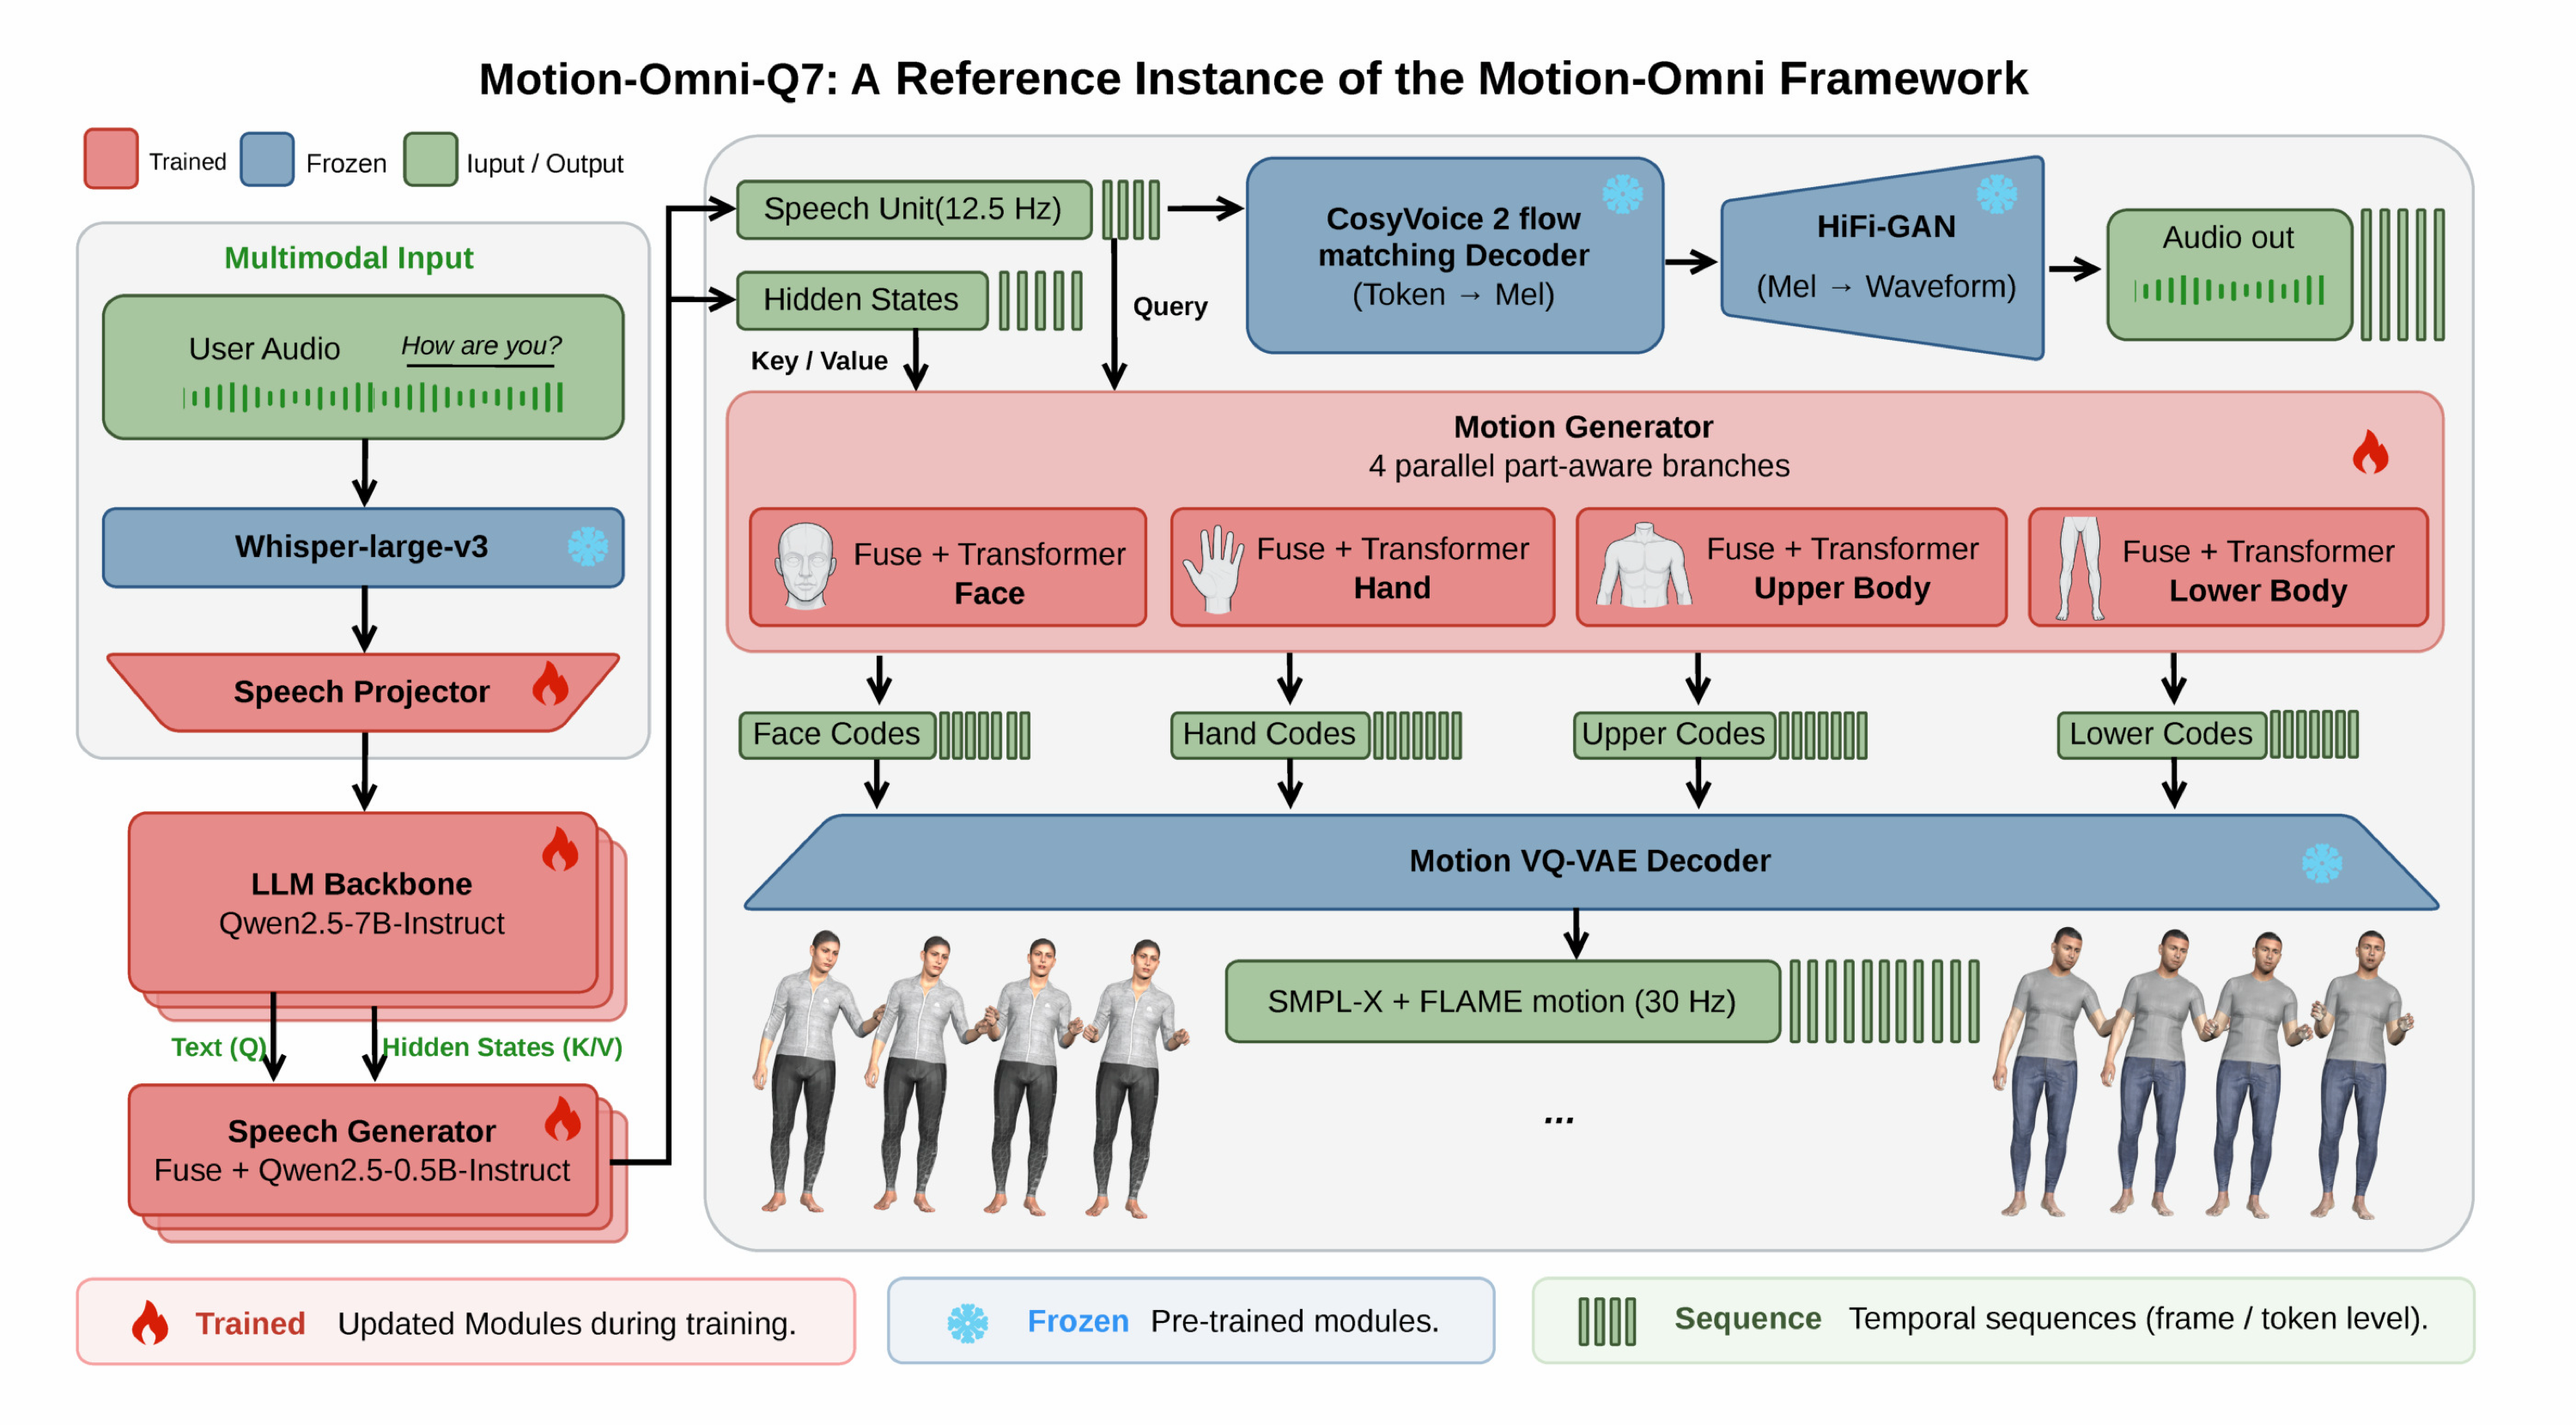
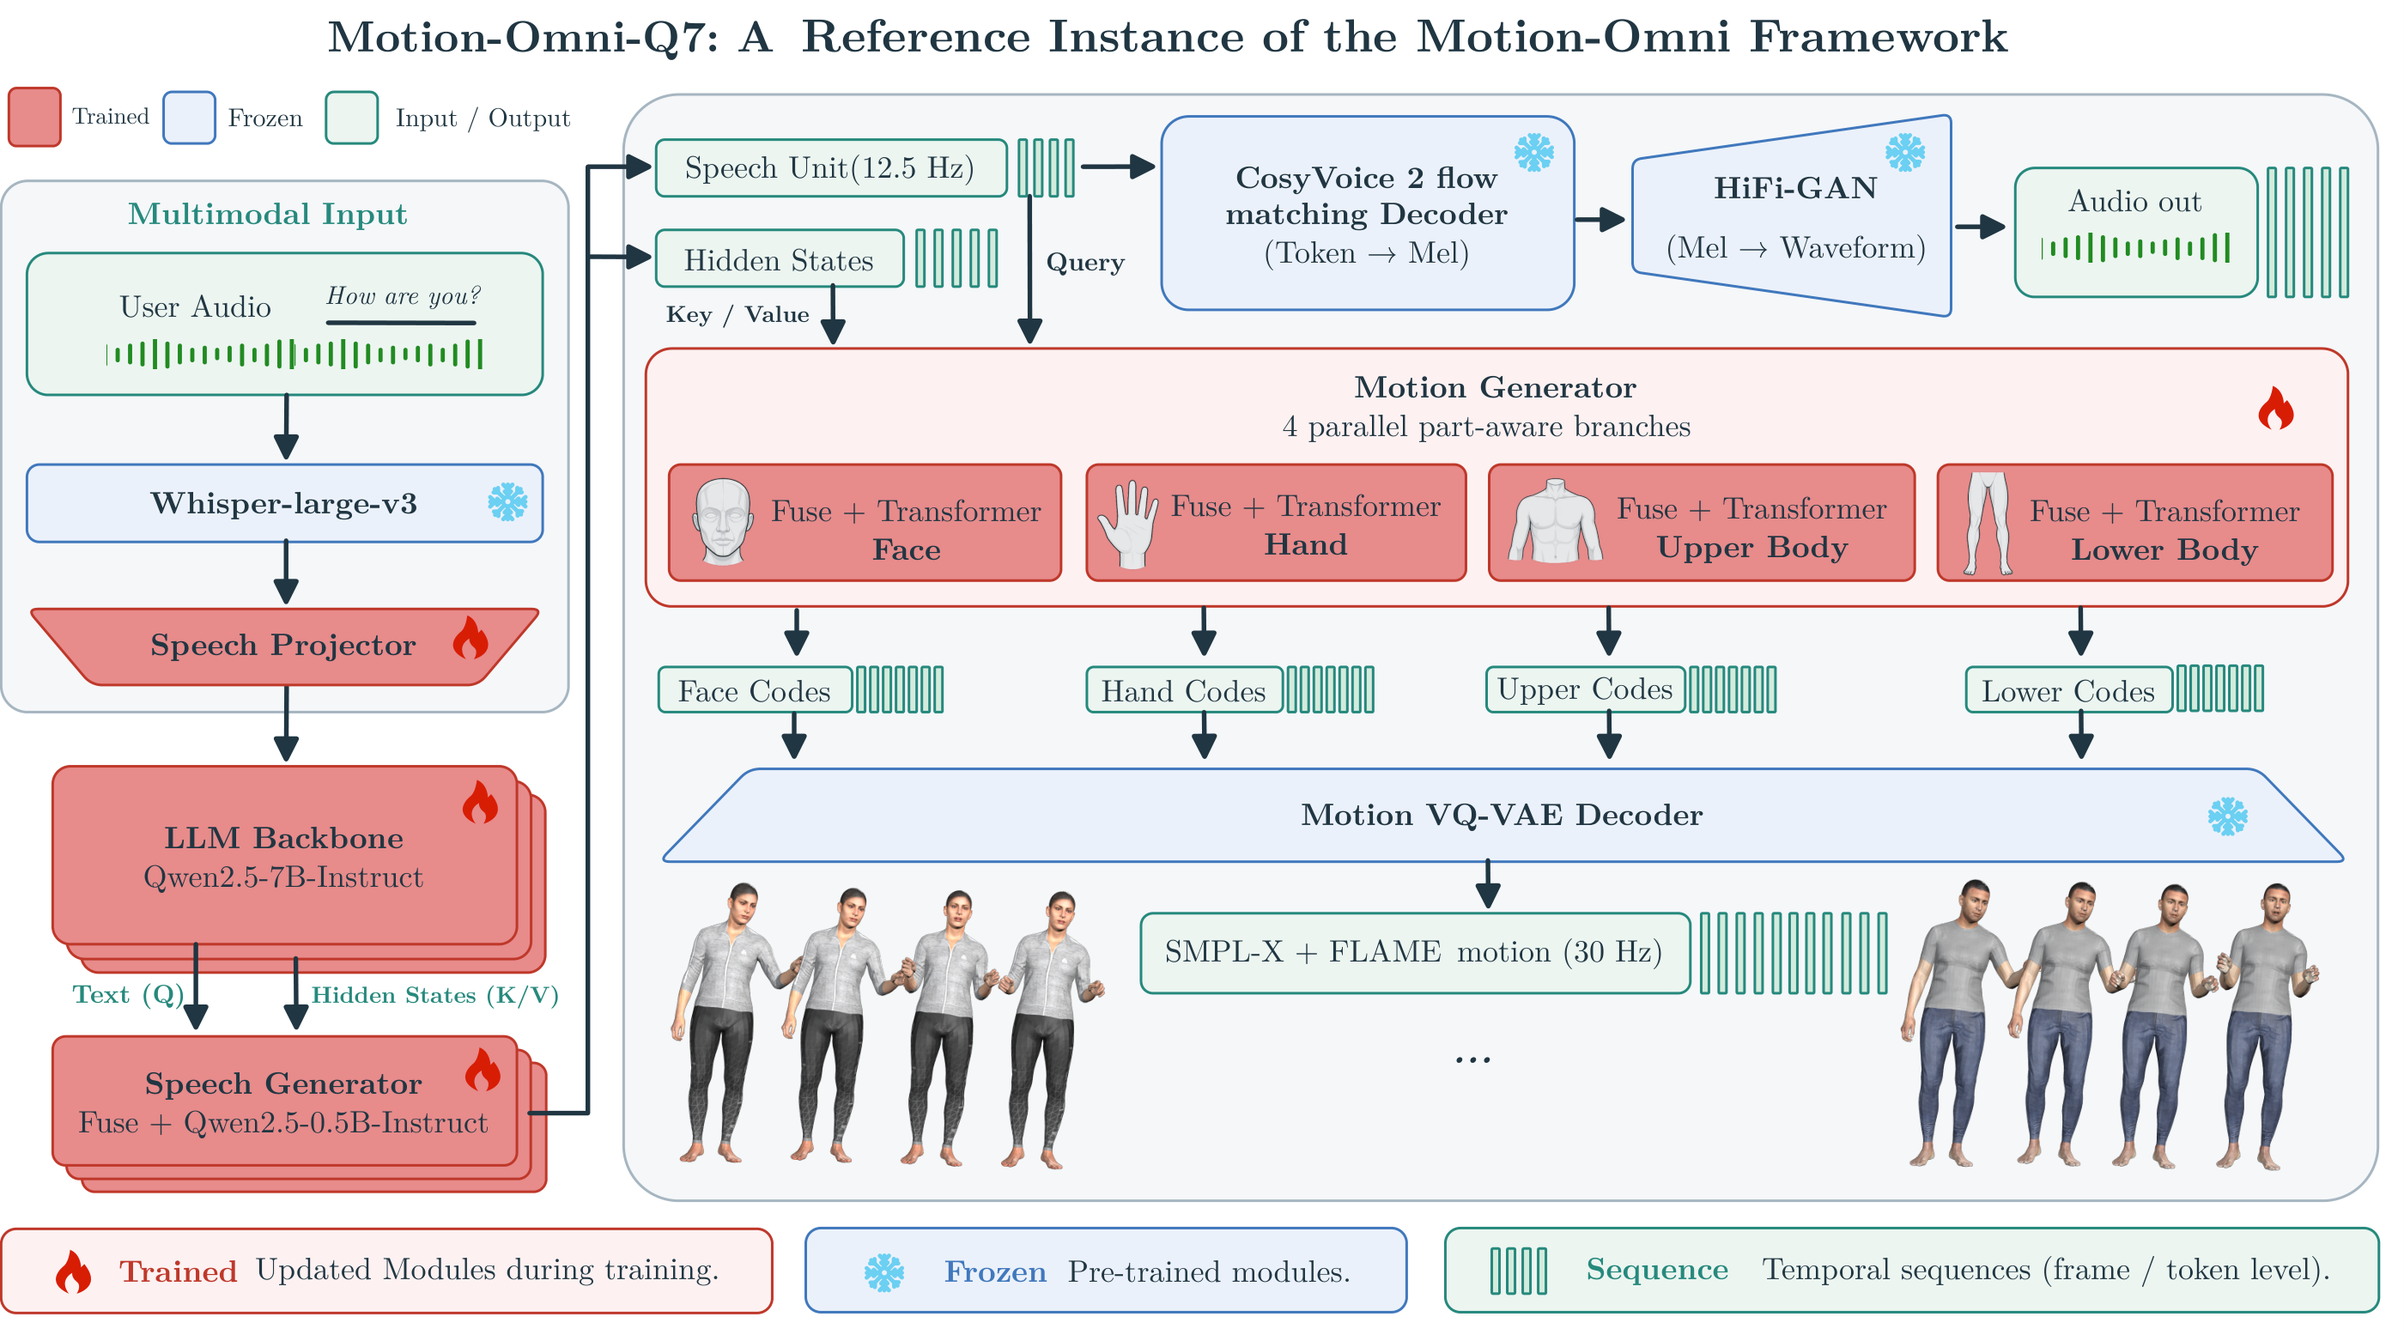
Update Motion-Omni to latest Figure 2 and bust image cache

diff --git a/world-scene.js b/world-scene.js
@@ -87,7 +87,7 @@ async function createWorld() {
   const resources=modelJobs.map(([name,locations])=>tracked(name,async()=>{const model=await loadModel(name);if(name.startsWith('Birch'))model.traverse(m=>{if(m.isMesh&&m.material.map){m.material=m.material.clone();m.material.roughness=.92;}});locations.forEach(a=>{const o=instance(model,...a);if(name.startsWith('Birch'))trees.push(o);});}));
   const characterJob=tracked('guide',async()=>{const result=await createCharacter(loader);await prepareModel(result.root);return result;});resources.push(characterJob);
   const textures={},textureLoader=new THREE.TextureLoader();
-  for(const[id,file]of Object.entries({nativeseg:'NativeSeg',vivid:'VIVID','duplex-mpe':'DuplexMPE','motion-omni':'MotionOmni',omnidrive:'omnidrive',c3:'C3'}))resources.push(tracked(id,async()=>{const texture=await textureLoader.loadAsync(`./photo/optimized/${file}.webp`);texture.colorSpace=THREE.SRGBColorSpace;await prepareTexture(texture);textures[id]=texture;}));
+  for(const[id,file]of Object.entries({nativeseg:'NativeSeg',vivid:'VIVID','duplex-mpe':'DuplexMPE?v=2','motion-omni':'MotionOmni?v=2',omnidrive:'omnidrive',c3:'C3'}))resources.push(tracked(id,async()=>{const[name,q]=file.split('?');const texture=await textureLoader.loadAsync(`./photo/optimized/${name}.webp${q?`?${q}`:''}`);texture.colorSpace=THREE.SRGBColorSpace;await prepareTexture(texture);textures[id]=texture;}));
   const results=await Promise.allSettled(resources),failed=results.find(result=>result.status==='rejected');
   if(failed)throw new Error('A scene asset could not load. Please reload to try again.',{cause:failed.reason});
   const modelsLoaded=true,character=await characterJob;

diff --git a/index.html b/index.html
@@ -242,8 +242,8 @@
           <article class="publication" id="duplex-mpe" data-year="2026">
             <a class="paper-image" href="https://step-out.github.io/Duplex-MPE-Page/" target="_blank" rel="noopener noreferrer" tabindex="-1" aria-hidden="true">
               <picture>
-              <source srcset="photo/optimized/DuplexMPE.webp" type="image/webp">
-              <img src="photo/DuplexMPE.png" alt="" width="2800" height="1400" loading="lazy" decoding="async">
+              <source srcset="photo/optimized/DuplexMPE.webp?v=2" type="image/webp">
+              <img src="photo/DuplexMPE.png?v=2" alt="" width="2800" height="1400" loading="lazy" decoding="async">
             </picture>
             </a>
             <div class="paper-content">
@@ -266,8 +266,8 @@
           <article class="publication" id="motion-omni" data-year="2026">
             <a class="paper-image" href="https://step-out.github.io/Motion-Omni-Page/" target="_blank" rel="noopener noreferrer" tabindex="-1" aria-hidden="true">
               <picture>
-              <source srcset="photo/optimized/MotionOmni.webp" type="image/webp">
-              <img src="photo/MotionOmni.png" alt="" width="3000" height="1660" loading="lazy" decoding="async">
+              <source srcset="photo/optimized/MotionOmni.webp?v=2" type="image/webp">
+              <img src="photo/MotionOmni.png?v=2" alt="" width="2800" height="1555" loading="lazy" decoding="async">
             </picture>
             </a>
             <div class="paper-content">

diff --git a/guide-scene.js b/guide-scene.js
@@ -47,10 +47,10 @@ async function createGuide(container) {
   const { sprite } = baseAtlas;
   // Familiar work appears in the scenery. These optional local images never delay the guide.
   const artwork = {};
-  for (const [key, file] of Object.entries({nativeseg: 'NativeSeg', vivid: 'VIVID', 'omnidrive': 'omnidrive', 'motion-omni': 'MotionOmni', 'duplex-mpe': 'DuplexMPE', c3: 'C3', pku: 'pku', seed: 'seed'})) {
+  for (const [key, file] of Object.entries({nativeseg: 'NativeSeg', vivid: 'VIVID', 'omnidrive': 'omnidrive', 'motion-omni': 'MotionOmni.webp?v=2', 'duplex-mpe': 'DuplexMPE.webp?v=2', c3: 'C3', pku: 'pku', seed: 'seed'})) {
     const image = new Image(); image.decoding = 'async';
     image.onload = () => { artwork[key] = image; request(); };
-    image.src = new URL(`./photo/optimized/${file}.webp`, import.meta.url).href;
+    image.src = new URL(`./photo/optimized/${file.includes('.') ? file : `${file}.webp`}`, import.meta.url).href;
   }
   for (const file of ['tree','tree-round','shrub','daisies','cloud']) {
     const image = new Image(); image.decoding = 'async';
